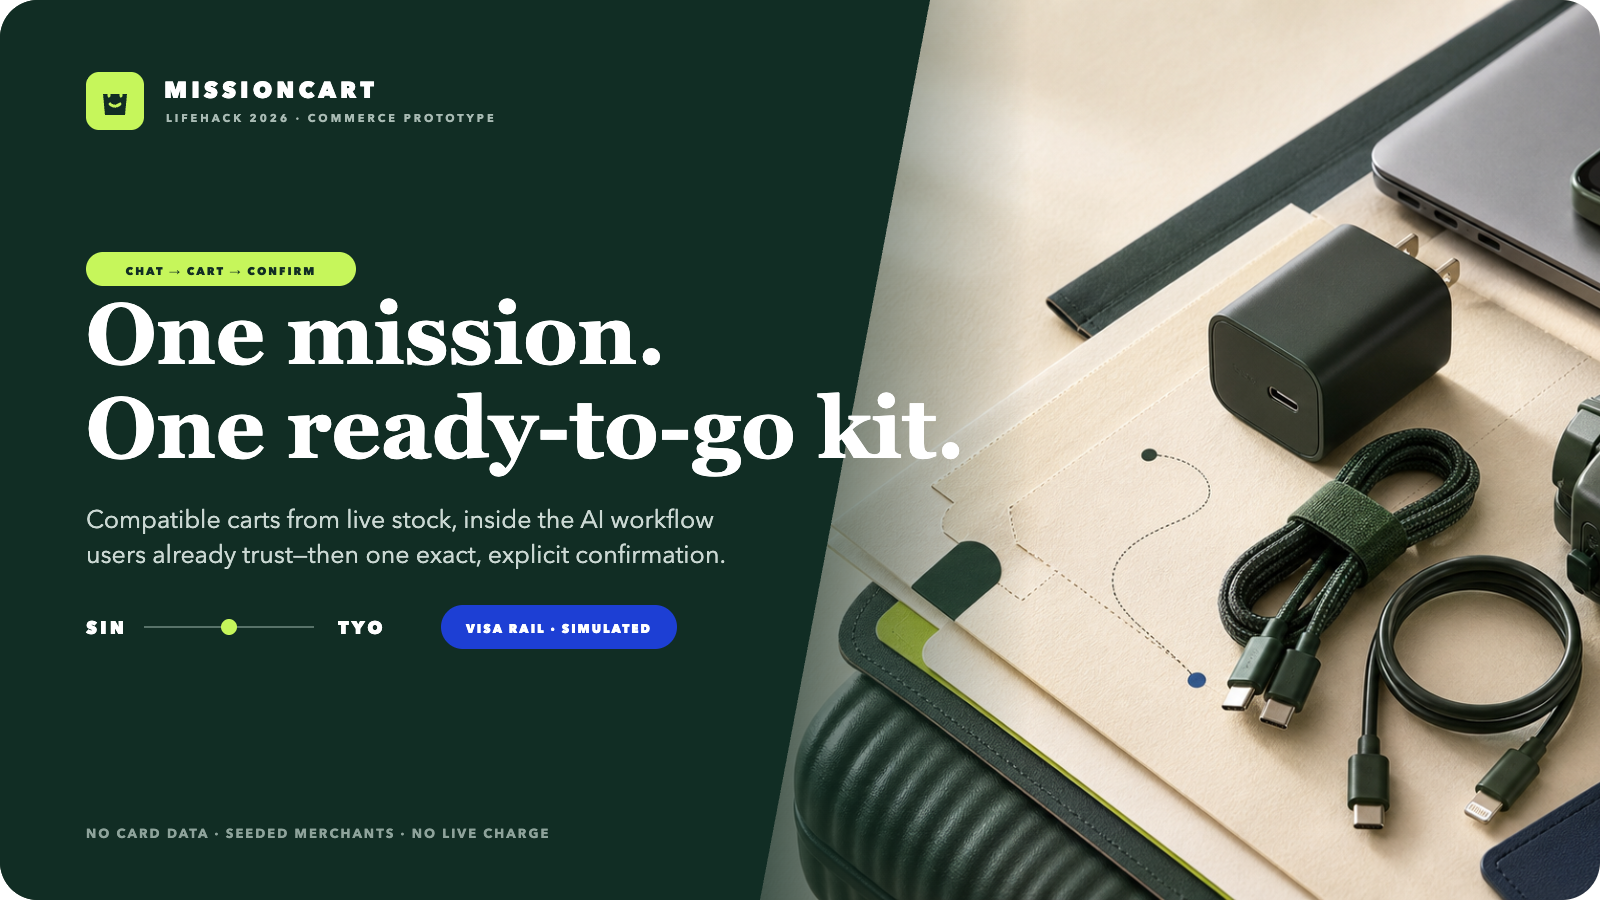
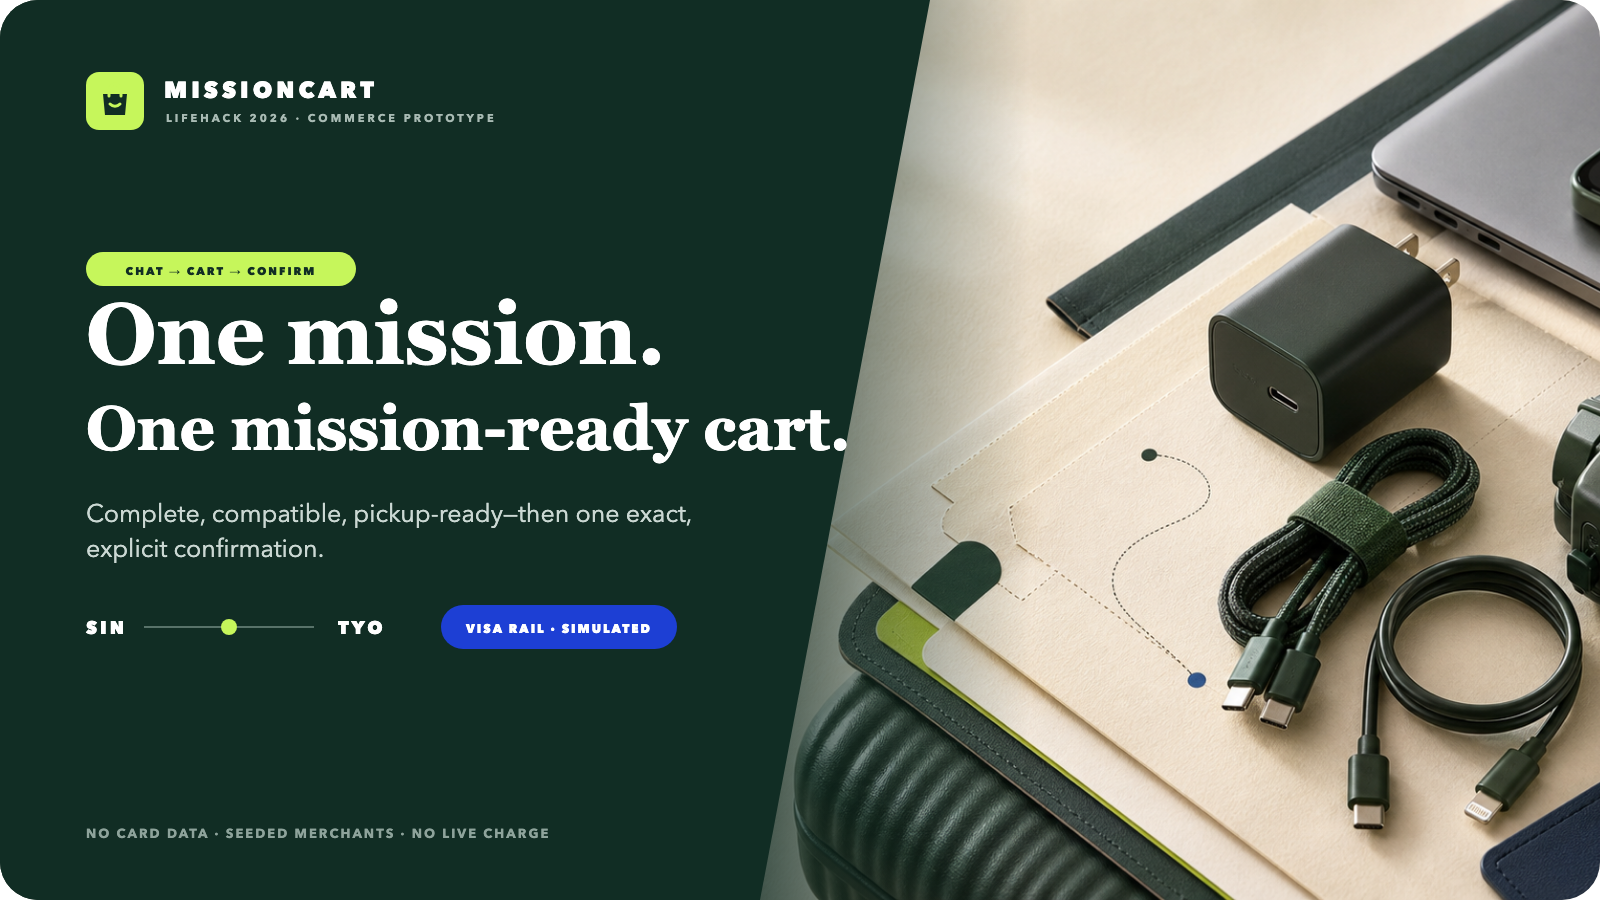
docs(feat): preserve MissionCart gallery exploration
Archive the pre-Woven Devpost cover, problem-benefit comparison, buyer journey, gallery ordering, and handover copy on a dedicated branch so the exploratory work remains recoverable without regressing main.

Changed region(s): [[0.0625, 0.4356, 0.5938, 0.5289], [0.0312, 0.56, 0.4375, 0.6222]]

diff --git a/docs/DEVPOST_SUBMISSION.md b/docs/DEVPOST_SUBMISSION.md
@@ -140,15 +140,18 @@ All gallery assets are 1600 × 900 and live in the repository.
 
 | Order | File | Devpost title | Caption |
 | --- | --- | --- | --- |
-| 1 | `docs/assets/devpost/cover.png` | One mission. One ready-to-go kit. | MissionCart turns one urgent request into a compatible cart and an exact confirmation. |
-| 2 | `docs/assets/screenshots/buyer-overview.png` | Complete carts, not loose links | Three one-merchant options satisfy the budget, compatibility, stock, and pickup constraints. |
-| 3 | `docs/assets/screenshots/checkout-confirmation.png` | The human stays in control | Merchant, pickup, cart version, and total are bound to one expiring confirmation. |
-| 4 | `docs/assets/screenshots/order-success.png` | From mission to pickup receipt | A successful simulated Visa result reserves the kit and returns a pickup-ready receipt. |
-| 5 | `docs/assets/screenshots/merchant-dashboard.png` | Trust you can test live | Change inventory or trigger decline/reversal scenarios while the audit trail updates. |
-| 6 | `docs/assets/devpost/architecture.png` | Built inside the AI workflow | ChatGPT/Codex coordinates intent; MissionCart validates commerce; the user authorizes exact terms. |
+| 1 | `docs/assets/devpost/cover.png` | One mission. One mission-ready cart. | Complete, compatible, pickup-ready—then one exact, explicit confirmation. |
+| 2 | `docs/assets/devpost/problem-benefits.png` | Search finds products. MissionCart completes the mission. | MissionCart replaces loose links and fragmented pickup with one verified cart and a clear human authorization boundary. |
+| 3 | `docs/assets/devpost/how-it-works.png` | From one sentence to a pickup-ready cart | Describe the mission, build complete carts, recheck exact terms, confirm once, and receive pickup details. |
+| 4 | `docs/assets/screenshots/buyer-overview.png` | Complete carts, not loose links | Three one-merchant options satisfy the budget, compatibility, stock, and pickup constraints. |
+| 5 | `docs/assets/screenshots/checkout-confirmation.png` | The human stays in control | The AI recommends. Only the user authorizes the exact merchant, cart version, and total. |
+| 6 | `docs/assets/screenshots/merchant-dashboard.png` | Trust you can test live | Change price or stock, trigger declines or reversals, and inspect the audit trail. |
+| 7 | `docs/assets/devpost/architecture.png` | Built inside the AI workflow | ChatGPT/Codex coordinates intent; MissionCart validates commerce; the user authorizes exact terms. |
 
 Use `cover.png` as the Devpost thumbnail. Keep the raw product screenshots
-uncropped so judges can inspect the visible prototype boundaries.
+uncropped so judges can inspect the visible prototype boundaries. The successful
+order screenshot remains available at `docs/assets/screenshots/order-success.png`
+as a supplementary README asset, not part of this upload sequence.
 
 ## 90-second demo script
 
@@ -228,5 +231,5 @@ transactions safely.
 - [ ] Confirm the event's rules for using “Visa” in tags and screenshots
 - [ ] Verify the repository visibility required by the hackathon
 - [ ] Test every public link in a logged-out browser
-- [ ] Upload the six gallery files in the order above
+- [ ] Upload the seven gallery files in the order above
 - [ ] Reset the demo database to the normal scenario before judging

diff --git a/docs/HANDOVER.md b/docs/HANDOVER.md
@@ -1,6 +1,6 @@
 # MissionCart AI handover
 
-**Last updated:** 29 August 2026
+**Last updated:** 30 August 2026
 
 **Repository:** `Ducksss/LifeHack-2026`
 
@@ -66,7 +66,7 @@ Within three minutes, the audience should see:
 | Checkout safety | Complete for prototype | Expiry, hash, private nonce, exact terms, idempotency |
 | Visa rail | Simulated only | Approval, decline, failure, and reversal semantics |
 | Automated verification | Green | Eight tests, TypeScript/build gate, GitHub CI |
-| README and gallery | Complete | Best-README structure and six 1600×900 assets |
+| README and gallery | Complete | Best-README structure and seven 1600×900 gallery assets |
 | Devpost copy | Draft complete | Field-ready copy and demo script exist |
 | Public HTTPS deployment | Not done | Required for a shareable ChatGPT connection |
 | Devpost submission | Not published | Needs human/team and launch details |
@@ -225,8 +225,9 @@ The polished 90-second narration is in `docs/DEVPOST_SUBMISSION.md`.
 
 ## Submission handover
 
-The README, brand system, cover, architecture slide, product screenshots, Devpost
-story, captions, pitch, judge Q&A, and recording script are complete and committed.
+The README, brand system, cover, problem/benefit and buyer-journey slides,
+architecture slide, product screenshots, Devpost story, captions, pitch, judge
+Q&A, and recording script are complete in the repository.
 
 Before publishing Devpost, a human must provide or confirm:
 
@@ -250,7 +251,7 @@ Unless the user changes direction, prioritize in this order:
 2. **Real ChatGPT connection:** connect the deployed `/mcp` endpoint in Developer
    Mode and verify the widget, private metadata, CSP and tool calls.
 3. **Demo recording:** capture the 90-second happy path plus one stale-cart failure.
-4. **Devpost publication:** add human/team details, upload the six gallery assets,
+4. **Devpost publication:** add human/team details, upload the seven gallery assets,
    add links and publish only with explicit user authorization.
 5. **Post-hackathon validation:** interview merchants/users before generalizing the
    mission engine or adding production integrations.

diff --git a/docs/BRAND_GUIDE.md b/docs/BRAND_GUIDE.md
@@ -35,16 +35,20 @@ IDs, audit events, and operational labels.
 | `docs/assets/brand/missioncart-kit-concept.png` | Text-free campaign/hero art |
 | `docs/assets/devpost/cover.png` | Primary Devpost thumbnail and social card |
 | `docs/assets/devpost/cover.svg` | Editable cover source |
+| `docs/assets/devpost/problem-benefits.png` | Search-versus-MissionCart comparison slide |
+| `docs/assets/devpost/problem-benefits.svg` | Editable comparison source |
+| `docs/assets/devpost/how-it-works.png` | Five-step buyer journey slide |
+| `docs/assets/devpost/how-it-works.svg` | Editable buyer-journey source |
 | `docs/assets/devpost/architecture.png` | Devpost system-story slide |
 | `docs/assets/devpost/architecture.svg` | Editable architecture source |
-| `docs/assets/screenshots/*.png` | Verified product gallery |
+| `docs/assets/screenshots/*.png` | Verified product screenshots; order success is supplementary |
 
 All Devpost gallery images are 1600 × 900. Upload them uncropped in the order
 listed in `docs/DEVPOST_SUBMISSION.md`.
 
 ## Voice
 
-- Lead with the outcome: ready-to-go kit, compatible cart, exact confirmation.
+- Lead with the outcome: mission-ready cart, compatible cart, exact confirmation.
 - Prefer precise verbs: ranks, verifies, binds, rechecks, confirms, reverses.
 - Keep the user in control: “The AI recommends. The user chooses.”
 - State prototype boundaries beside payment claims, not in distant fine print.

diff --git a/README.md b/README.md
@@ -34,7 +34,7 @@
   </p>
 </div>
 
-![MissionCart — one mission, one ready-to-go kit](docs/assets/devpost/cover.png)
+![MissionCart — one mission, one mission-ready cart](docs/assets/devpost/cover.png)
 
 > [!IMPORTANT]
 > MissionCart is a hackathon prototype. Merchants, inventory, prices, and Visa
